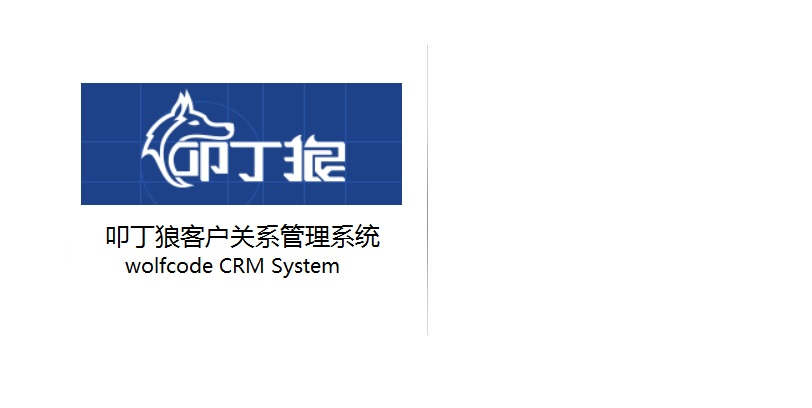
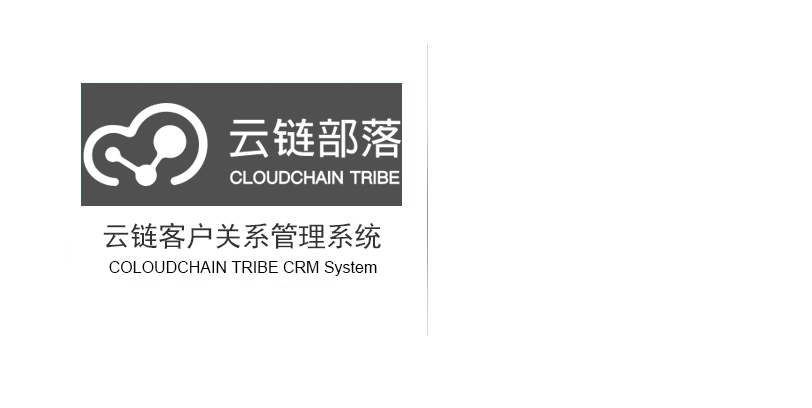
some changes

Changed region(s): [[0.0924, 0.2059, 0.4926, 0.6765]]

diff --git a/ROOT/login.html b/ROOT/login.html
@@ -2,7 +2,7 @@
 <html>
 <head>
 <meta http-equiv="Content-Type" content="text/html; charset=UTF-8">
-	<title>叩丁狼客户管理系统->用户登录</title>
+	<title>云链部落客户管理系统->用户登录</title>
 <link rel="stylesheet" href="/css/core.css" type="text/css" />
 	<link rel="stylesheet" href="js/bootstrap/css/bootstrap.css">
 	<link rel="stylesheet" href="/css/core.css" type="text/css" />
@@ -42,7 +42,7 @@ body{
 </head>
 <body>
 	<div class="container cm-container">
-		<h3 class="text-center"><font style="color: #337ab7;">叩丁狼客户管理系统(系统管理平台)</font></h3>
+		<h3 class="text-center"><font style="color: #337ab7;">云链部落客户管理系统(系统管理平台)</font></h3>
 		<hr />
 		<div class="login">
 			<form id="loginForm" action="/login.do" method="post">
